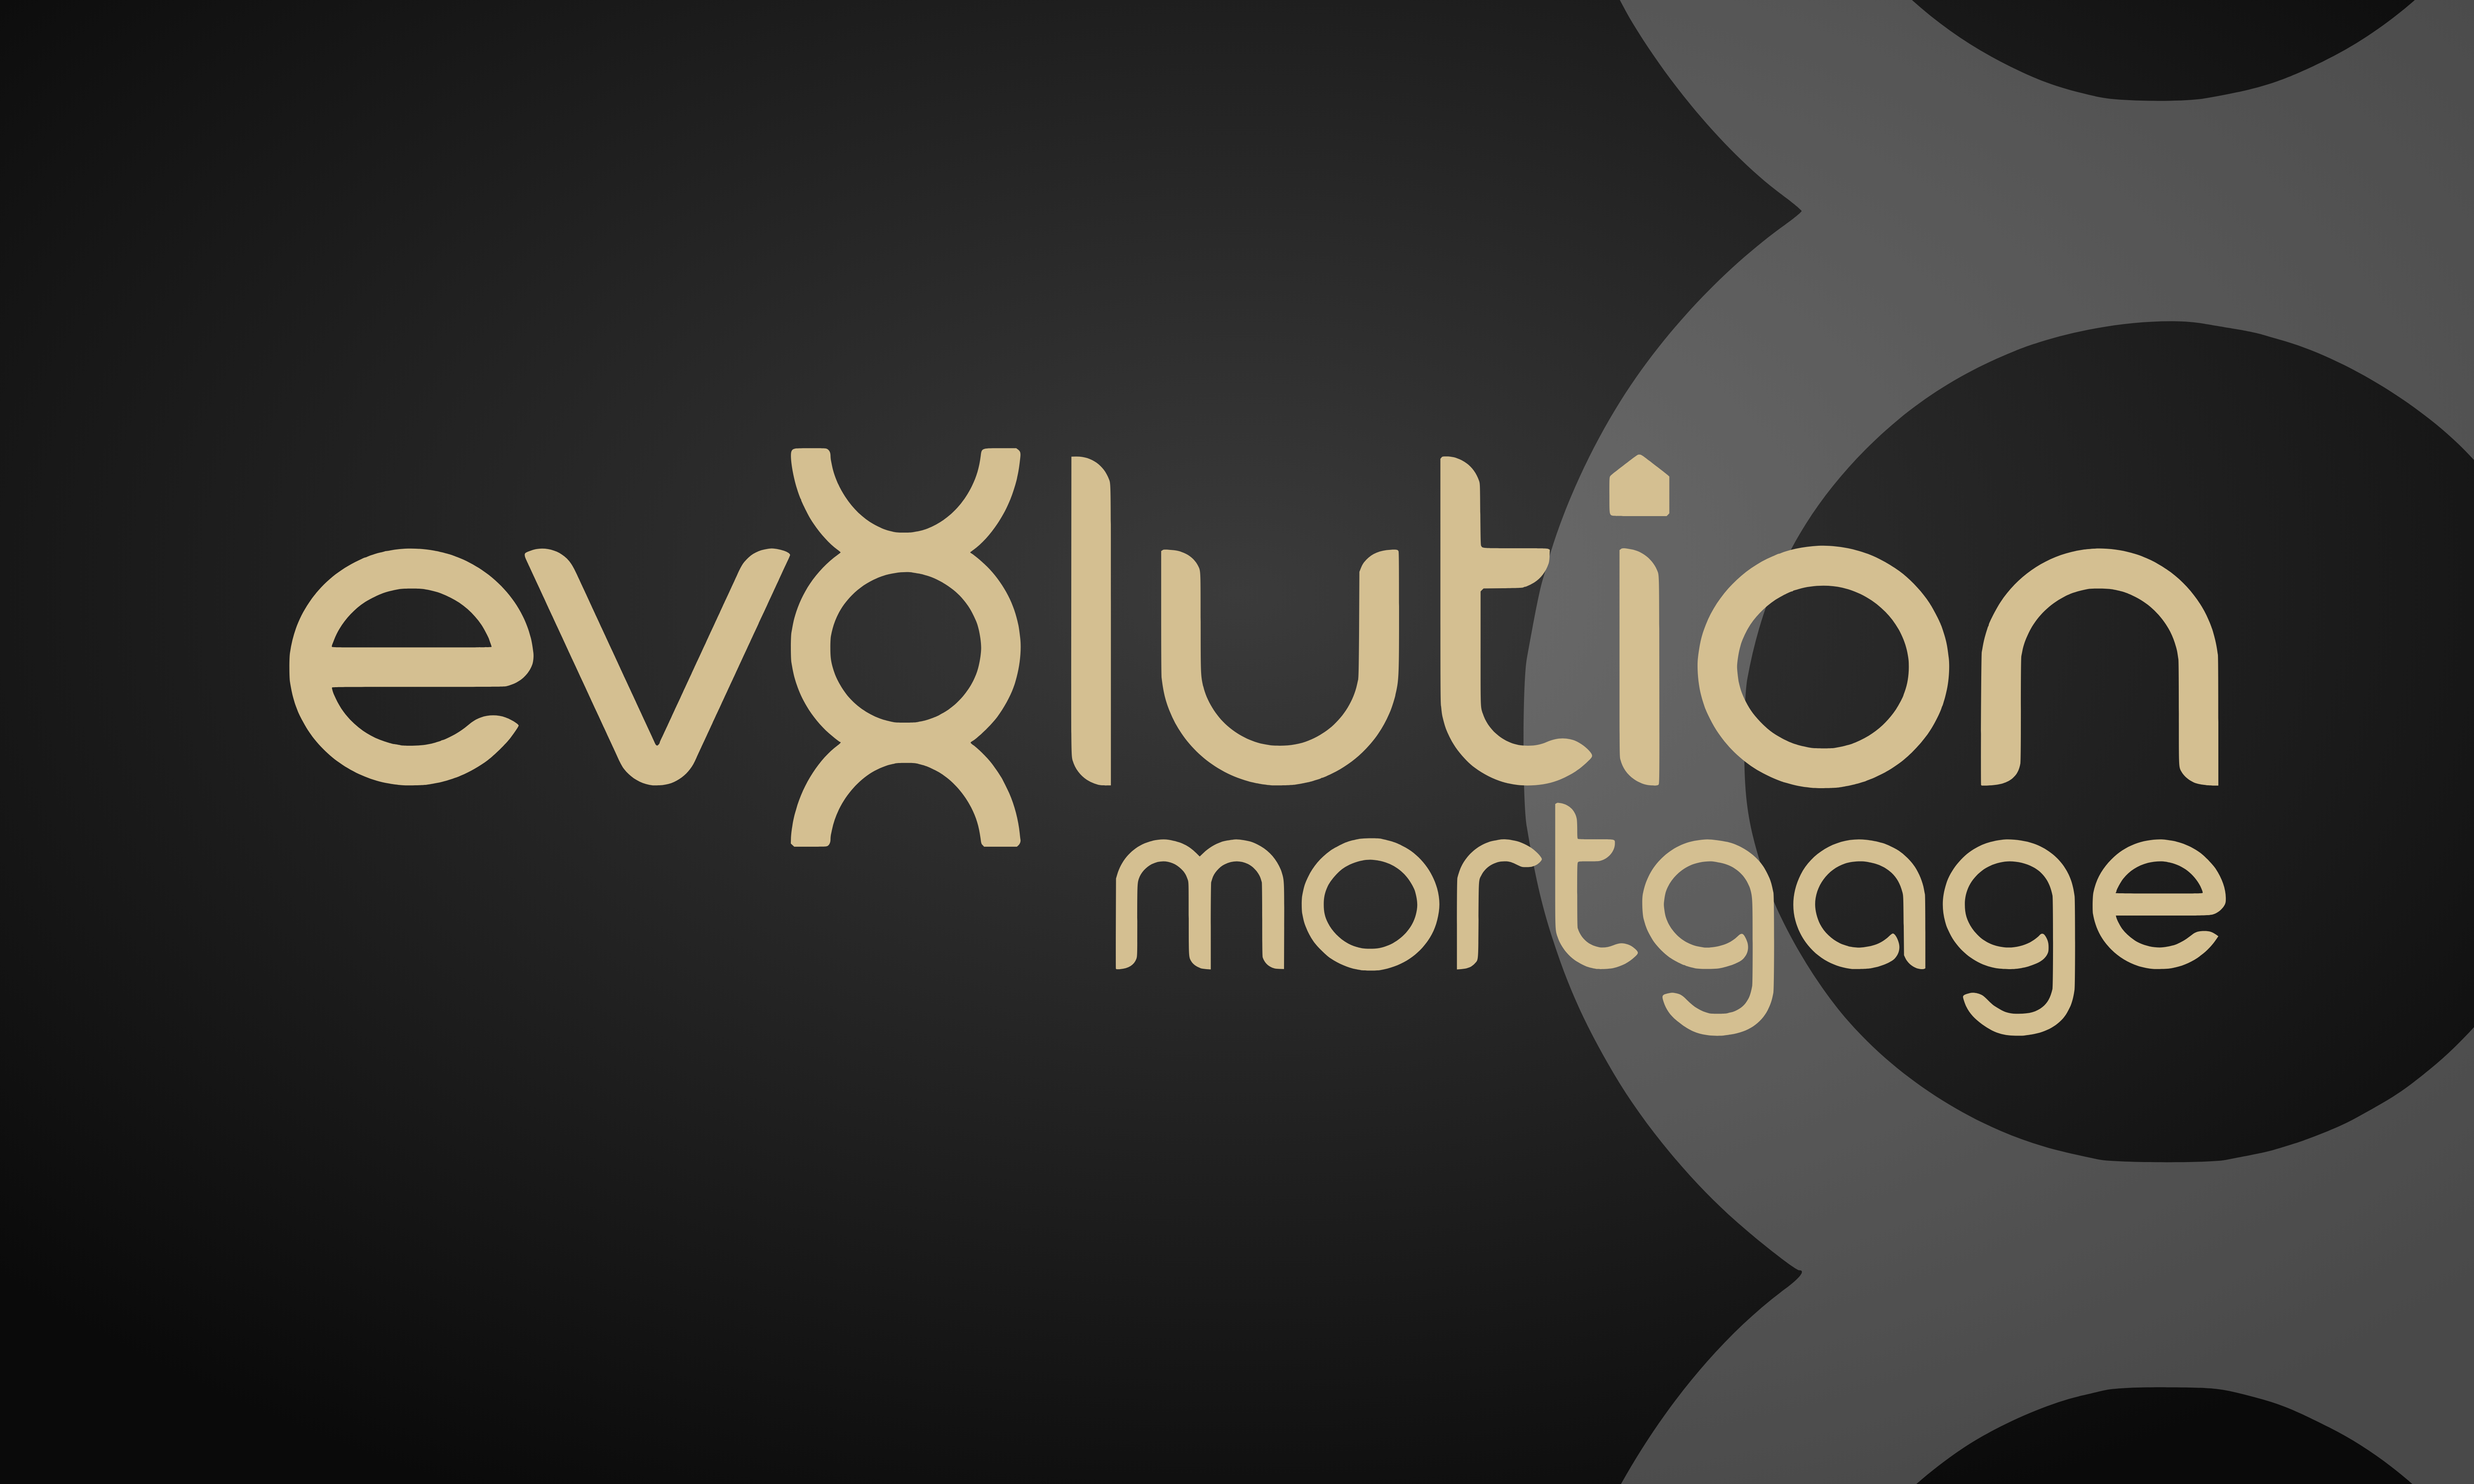
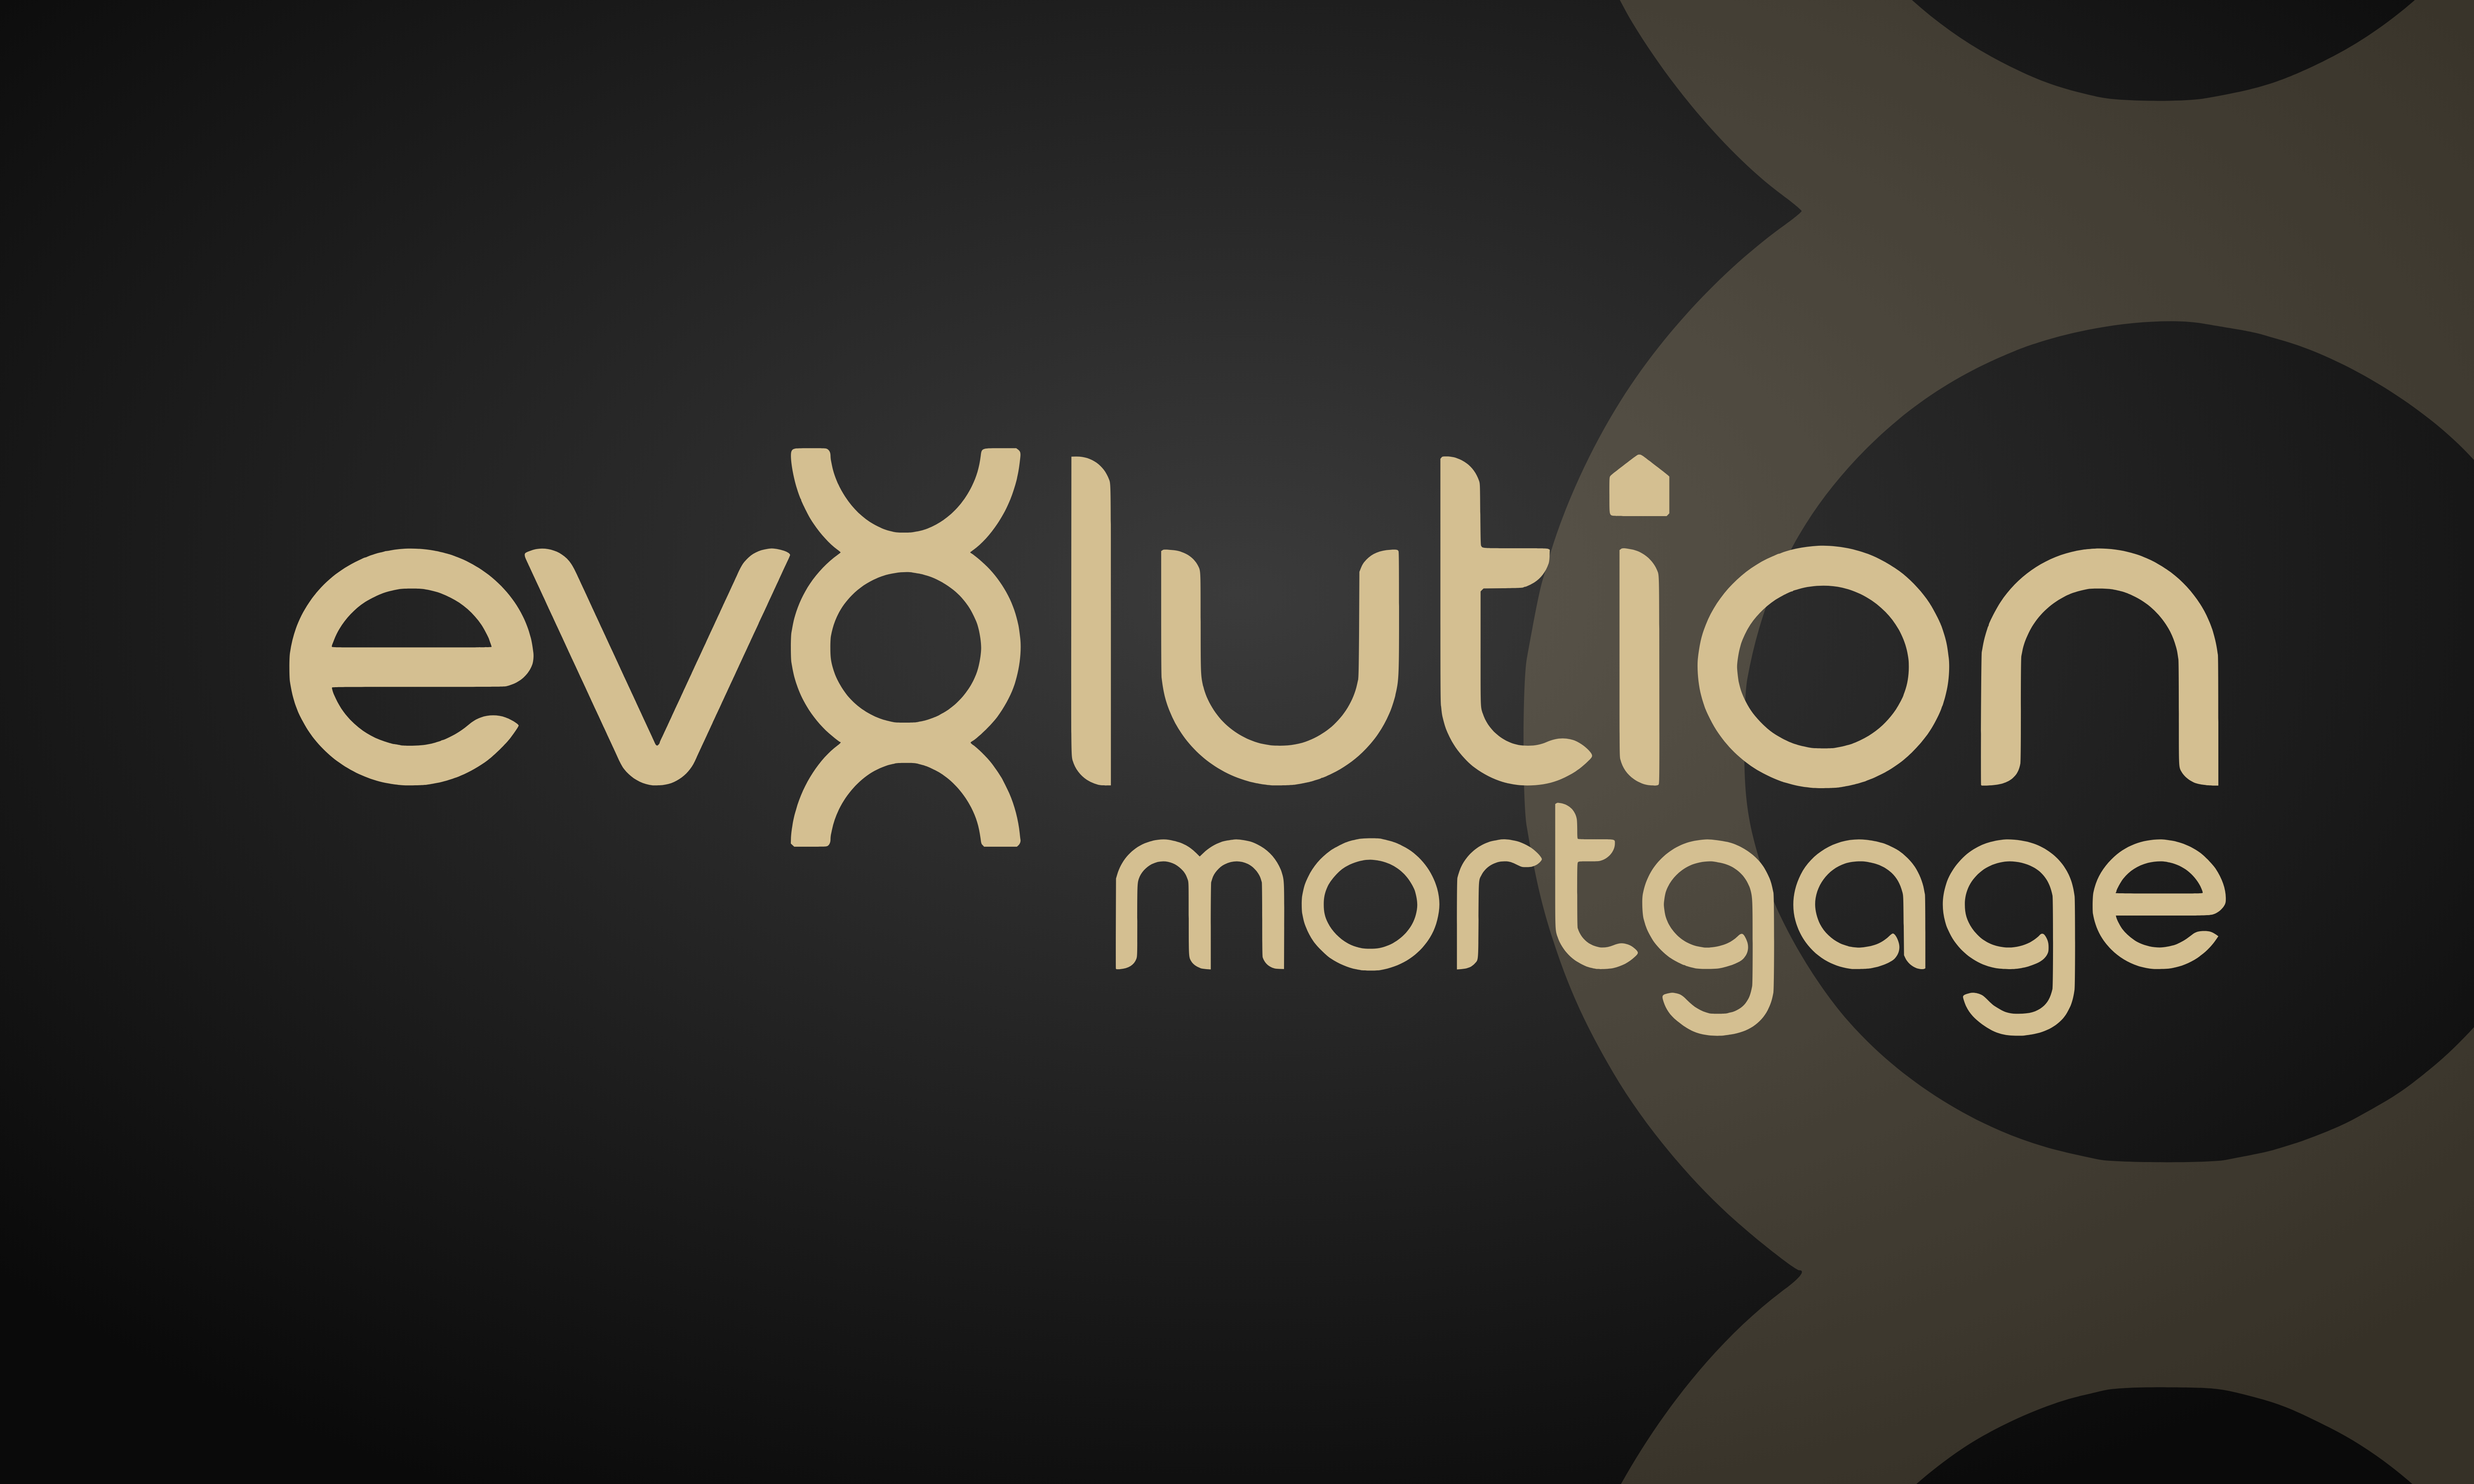
Flag black colorway: helix watermark in gold at 22 percent
Claude-Session: https://claude.ai/code/session_017jFjDW4UFsjPZof8K9bLc7

Changed region(s): [[0.5922, 0.0, 1.0, 1.0]]

diff --git a/design/evolution-mortgage-tailgate-flag/source/make_flag.py b/design/evolution-mortgage-tailgate-flag/source/make_flag.py
@@ -99,7 +99,7 @@ def build(variant='A', bleed=0.0, guides=False, W=60.0, H=36.0, colorway='navy',
     if colorway == 'black':
         BG_EDGE, BG_CENTER = INK_BLACK, CHARCOAL
         INK = ARMY_GOLD                      # lettering in Army West Point gold
-        WM_FILL, WM_OP = WHITE, 0.26         # grey helix, as in the reference
+        WM_FILL, WM_OP = ARMY_GOLD, 0.22     # gold helix, kept transparent so it stays in the background
     else:
         BG_EDGE, BG_CENTER = NAVY, GLOW
         INK = WHITE if dark else NAVY        # text / marks

diff --git a/design/evolution-mortgage-tailgate-flag/README.md b/design/evolution-mortgage-tailgate-flag/README.md
@@ -3,7 +3,7 @@
 Print-ready artwork for a 3 ft × 5 ft (36 × 60 in) landscape sponsor flag in three colorways,
 built from the approved logo files in the brand kit and the rules in the Design & Template HQ.
 
-- **Black / gold** (for the West Point tailgate): lockup in Army West Point gold `#D4BF91` (Pantone 467 C) on a black field with a charcoal glow and a grey helix watermark.
+- **Black / gold** (for the West Point tailgate): lockup in Army West Point gold `#D4BF91` (Pantone 467 C) on a black field with a charcoal glow and the helix watermark in the same gold at 22 %.
 - **Navy**: white logo lockup on a deep navy field. Reads from across a lot, hides dust and handling.
 - **White**: the full-color logo (blue gradient, red helix) on a white field, navy type.
 
@@ -26,7 +26,7 @@ A version with the tagline "Home loans made simple." and the NMLS / Equal Housin
 
 - Trim size 60 × 36 in, landscape. Hoist (pole side) is the left edge.
 - Bleed 1 in. Safe area 3 in on all sides, 4 in on the hoist (room for a pole sleeve or grommet header).
-- Colors (RGB masters, printer converts): navy `#0B1F3F`, glow centre `#163D72`, deep blue `#1456AA`, cyan `#21A0DE`, white. Black colorway: field `#0A0A0A` to `#3B3B3B`, gold `#D4BF91` (Pantone 467 C), helix at 26 % white.
+- Colors (RGB masters, printer converts): navy `#0B1F3F`, glow centre `#163D72`, deep blue `#1456AA`, cyan `#21A0DE`, white. Black colorway: field `#0A0A0A` to `#3B3B3B`, gold `#D4BF91` (Pantone 467 C), helix in gold `#D4BF91` at 22 %.
 - Type (alternate version only): Poppins SemiBold (tagline) and Inter Medium (footer), converted to outlines. The main files carry no text besides the logo.
 - Logos: approved white lockup (vectorized from the brand PNG) on navy; approved full-color lockup on white. Helix mark repeated at 6–7 % as a fly-edge watermark.
 
